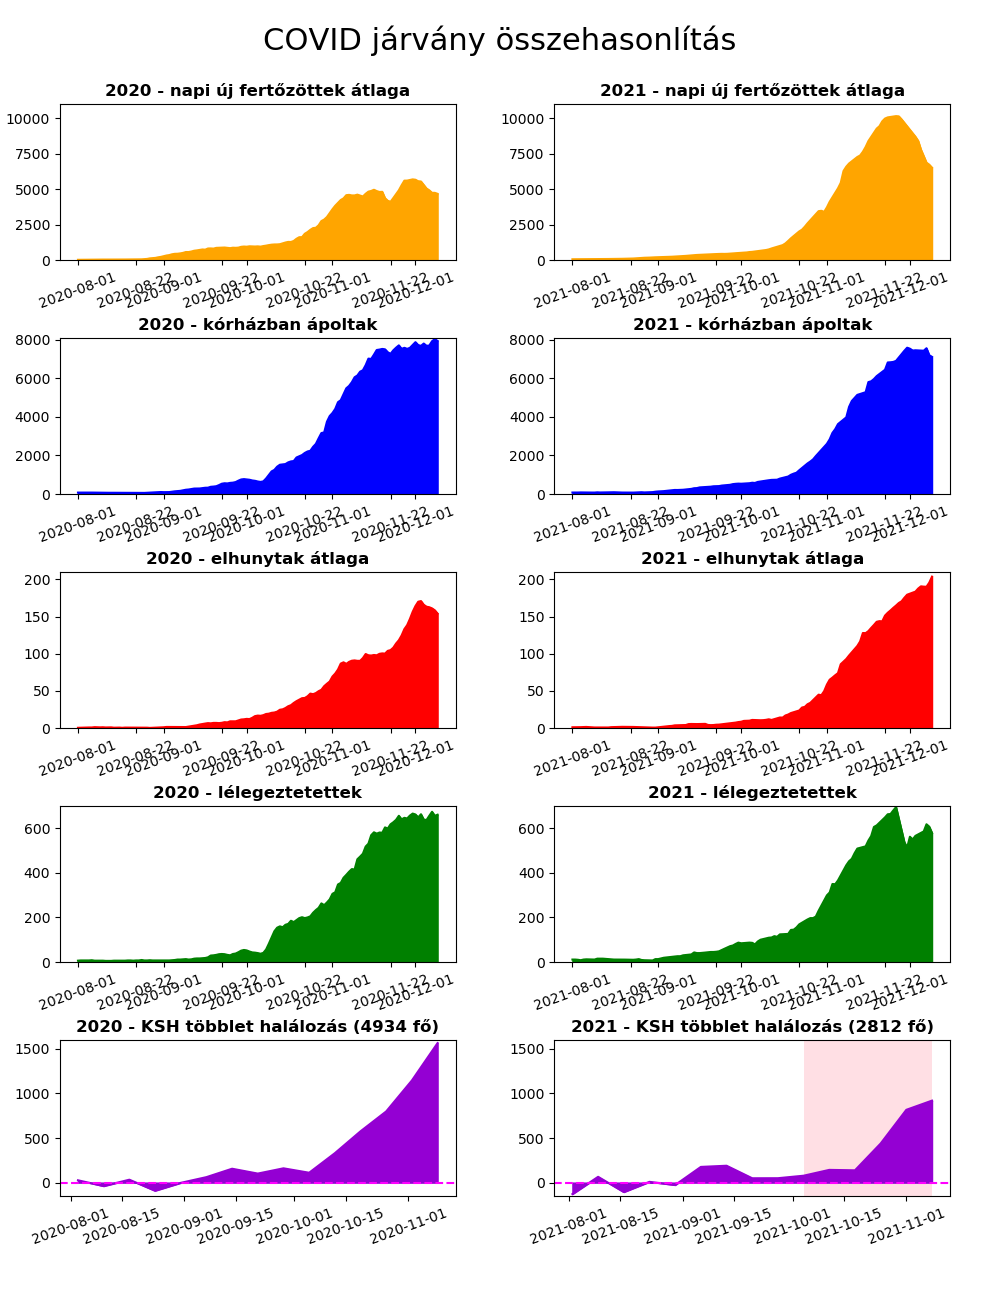
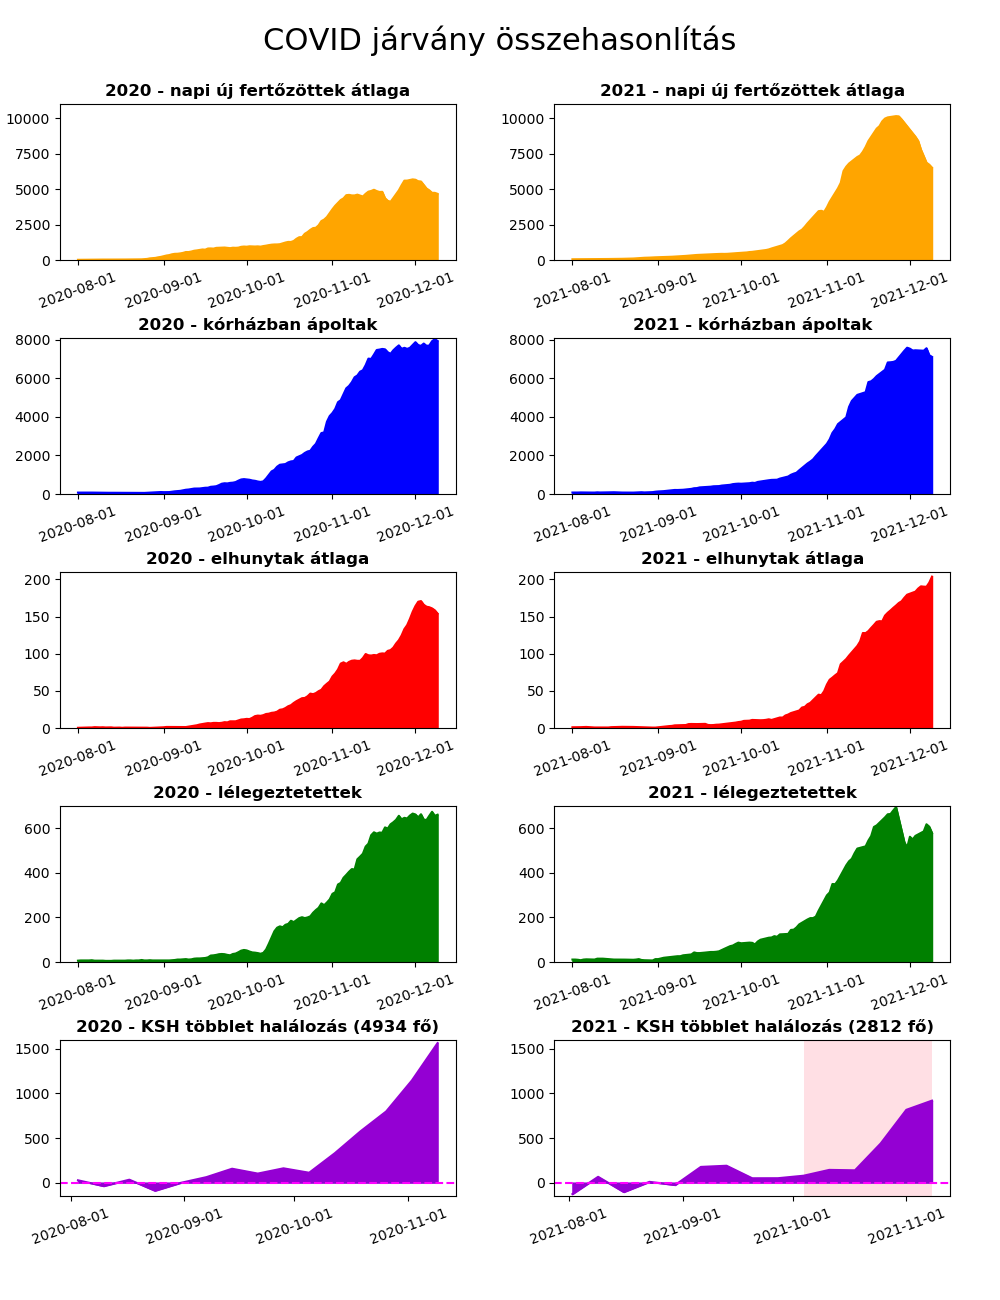
Frissítés

diff --git a/kép_összehasonlítás.py b/kép_összehasonlítás.py
@@ -11,6 +11,7 @@ import mpl_toolkits.axisartist as AA
 from matplotlib import gridspec
 from datetime import timedelta
 from matplotlib.patches import Rectangle
+import matplotlib.dates as mdates
 
 BASEDIR=os.path.dirname(__file__)
 
@@ -84,19 +85,25 @@ maxkr = int(((concatfr['Kórházban ápoltak']) + 99) / 100) * 100
 maxeh = int(((concatfr['Napi új elhunyt átlag']) + 9) / 10) * 10
 maxlg = int(((concatfr['Lélegeztetettek']) + 19) / 20) * 20
 
+formatter = mdates.DateFormatter("%Y-%m-%d")
+
 ax1=fig.add_subplot(spec[0], label="1")
 ax1.plot(df2020['Dátum'], df2020['Napi új fertőzött átlag'], color='orange')
 ax1.set_ylim([0,maxuf])
 ax1.set_title("2020 - napi új fertőzöttek átlaga", fontweight='bold')
 ax1.tick_params(axis='x', rotation=20)
 ax1.fill_between(df2020['Dátum'], df2020['Napi új fertőzött átlag'], color="orange")
-
+ax1.xaxis.set_major_locator(mdates.MonthLocator(interval=1))
+ax1.xaxis.set_major_formatter(formatter)
+    
 ax2=fig.add_subplot(spec[1], label="2")
 ax2.plot(df2021['Dátum'], df2021['Napi új fertőzött átlag'], color='orange')
 ax2.set_ylim([0,maxuf])
 ax2.set_title("2021 - napi új fertőzöttek átlaga", fontweight='bold')
 ax2.tick_params(axis='x', rotation=20)
 ax2.fill_between(df2021['Dátum'], df2021['Napi új fertőzött átlag'], color="orange")
+ax2.xaxis.set_major_locator(mdates.MonthLocator(interval=1))
+ax2.xaxis.set_major_formatter(formatter)
 
 ax3=fig.add_subplot(spec[2], label="3")
 ax3.plot(df2020['Dátum'], df2020['Kórházban ápoltak'], color='blue')
@@ -104,6 +111,8 @@ ax3.set_ylim([0,maxkr])
 ax3.set_title("2020 - kórházban ápoltak", fontweight='bold')
 ax3.tick_params(axis='x', rotation=20)
 ax3.fill_between(df2020['Dátum'], df2020['Kórházban ápoltak'], color="blue")
+ax3.xaxis.set_major_locator(mdates.MonthLocator(interval=1))
+ax3.xaxis.set_major_formatter(formatter)
 
 ax4=fig.add_subplot(spec[3], label="4")
 ax4.plot(df2021['Dátum'], df2021['Kórházban ápoltak'], color='blue')
@@ -111,6 +120,8 @@ ax4.set_ylim([0,maxkr])
 ax4.set_title("2021 - kórházban ápoltak", fontweight='bold')
 ax4.tick_params(axis='x', rotation=20)
 ax4.fill_between(df2021['Dátum'], df2021['Kórházban ápoltak'], color="blue")
+ax4.xaxis.set_major_locator(mdates.MonthLocator(interval=1))
+ax4.xaxis.set_major_formatter(formatter)
 
 ax5=fig.add_subplot(spec[4], label="5")
 ax5.plot(df2020['Dátum'], df2020['Napi új elhunyt átlag'], color='red')
@@ -118,6 +129,8 @@ ax5.set_ylim([0,maxeh])
 ax5.set_title("2020 - elhunytak átlaga", fontweight='bold')
 ax5.tick_params(axis='x', rotation=20)
 ax5.fill_between(df2020['Dátum'], df2020['Napi új elhunyt átlag'], color="red")
+ax5.xaxis.set_major_locator(mdates.MonthLocator(interval=1))
+ax5.xaxis.set_major_formatter(formatter)
 
 ax6=fig.add_subplot(spec[5], label="6")
 ax6.plot(df2021['Dátum'], df2021['Napi új elhunyt átlag'], color='red')
@@ -125,6 +138,8 @@ ax6.set_ylim([0,maxeh])
 ax6.set_title("2021 - elhunytak átlaga", fontweight='bold')
 ax6.tick_params(axis='x', rotation=20)
 ax6.fill_between(df2021['Dátum'], df2021['Napi új elhunyt átlag'], color="red")
+ax6.xaxis.set_major_locator(mdates.MonthLocator(interval=1))
+ax6.xaxis.set_major_formatter(formatter)
 
 ax7=fig.add_subplot(spec[6], label="7")
 ax7.plot(df2020['Dátum'], df2020['Lélegeztetettek'], color='green')
@@ -132,6 +147,8 @@ ax7.set_ylim([0,maxlg])
 ax7.set_title("2020 - lélegeztetettek", fontweight='bold')
 ax7.tick_params(axis='x', rotation=20)
 ax7.fill_between(df2020['Dátum'], df2020['Lélegeztetettek'], color="green")
+ax7.xaxis.set_major_locator(mdates.MonthLocator(interval=1))
+ax7.xaxis.set_major_formatter(formatter)
 
 ax8=fig.add_subplot(spec[7], label="8")
 ax8.plot(df2021['Dátum'], df2021['Lélegeztetettek'], color='green')
@@ -139,6 +156,8 @@ ax8.set_ylim([0,maxlg])
 ax8.set_title("2021 - lélegeztetettek", fontweight='bold')
 ax8.tick_params(axis='x', rotation=20)
 ax8.fill_between(df2021['Dátum'], df2021['Lélegeztetettek'], color="green")
+ax8.xaxis.set_major_locator(mdates.MonthLocator(interval=1))
+ax8.xaxis.set_major_formatter(formatter)
 
 ax9=fig.add_subplot(spec[8], label="9")
 ax9.plot(dfksh2020['Dátum'], dfksh2020['KSH többlet'], color='darkviolet')
@@ -147,6 +166,8 @@ ax9.set_title("2020 - KSH többlet halálozás (" + str(ksh2020tobblet) + " fő)
 ax9.tick_params(axis='x', rotation=20)
 ax9.axhline(0,color='magenta',ls='--')
 ax9.fill_between(dfksh2020['Dátum'], dfksh2020['KSH többlet'], color="darkviolet")
+ax9.xaxis.set_major_locator(mdates.MonthLocator(interval=1))
+ax9.xaxis.set_major_formatter(formatter)
 
 ax10=fig.add_subplot(spec[9], label="10")
 ax10.plot(dfksh2021['Dátum'], dfksh2021['KSH többlet'], color='darkviolet')
@@ -156,6 +177,8 @@ ax10.tick_params(axis='x', rotation=20)
 ax10.axhline(0,color='magenta',ls='--')
 ax10.fill_between(dfksh2021['Dátum'], dfksh2021['KSH többlet'], color="darkviolet")
 ax10.add_patch(Rectangle((maxdateksh + timedelta(days = -35), kshtlim1), timedelta(days = 35), kshtlim2 - kshtlim1, facecolor="pink", alpha=0.5, zorder=-10))
+ax10.xaxis.set_major_locator(mdates.MonthLocator(interval=1))
+ax10.xaxis.set_major_formatter(formatter)
 
 fig.suptitle('COVID járvány összehasonlítás', fontsize=22)
 fig.savefig(BASEDIR + "/képek/CovidÖsszehasonlítás.png")
